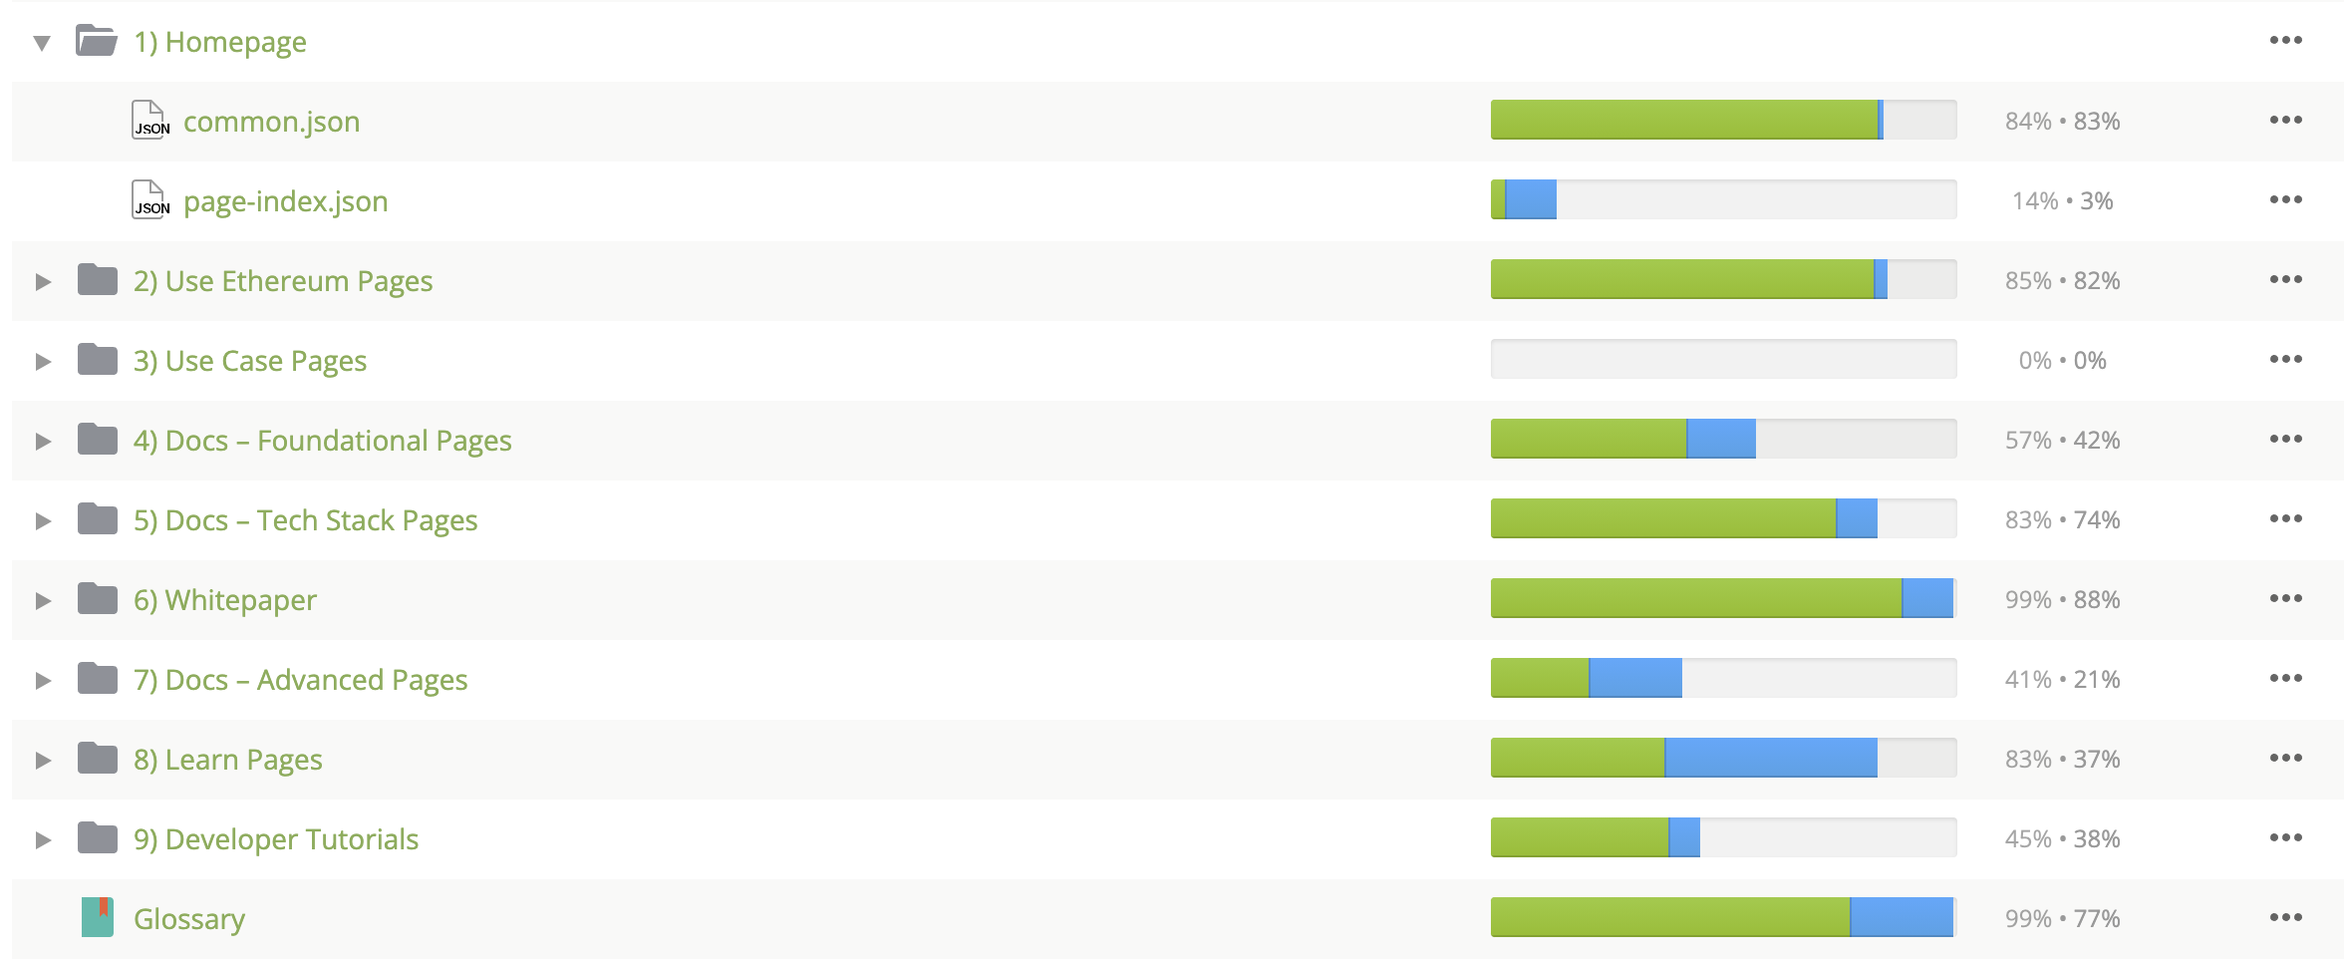
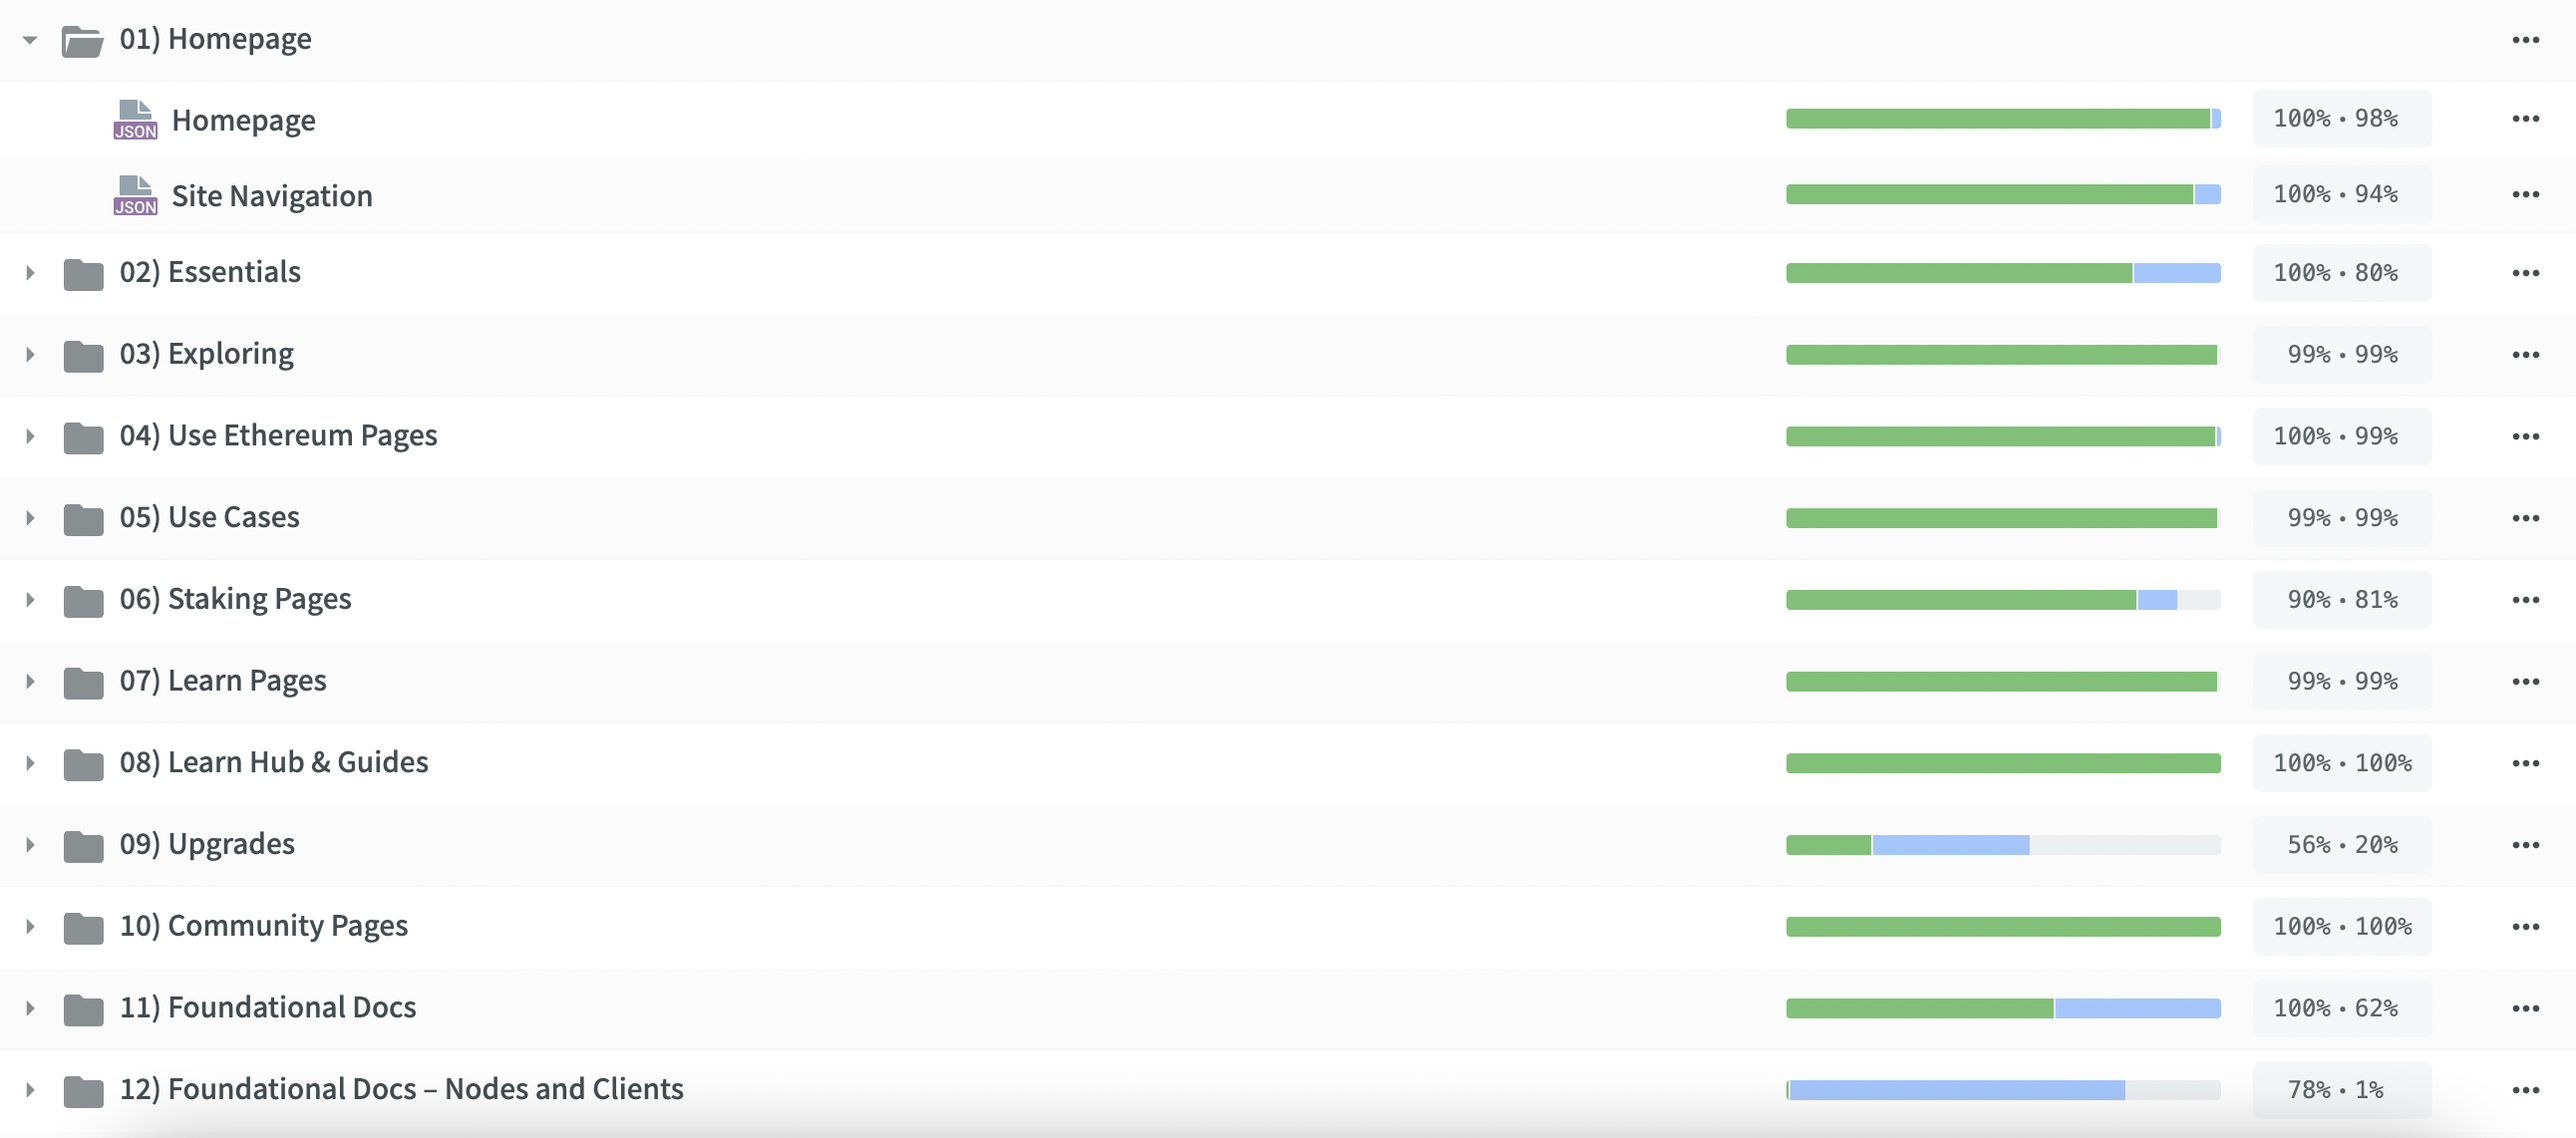
Update content buckets on How to translate page

diff --git a/src/content/contributing/translation-program/how-to-translate/index.md b/src/content/contributing/translation-program/how-to-translate/index.md
@@ -39,7 +39,7 @@ Don't see your language listed? [Open an issue](https://github.com/ethereum/ethe
 
 ![Translated and untranslated files in Crowdin](./crowdin-files.png)
 
-A note on content buckets: we use 'content buckets' within Crowdin to get the highest priority content released first. When you check out a language, for example, [Filipino](https://crowdin.com/project/ethereum-org/fil#) you'll see folders for content bucket ("1. Homepage", "2. Use Ethereum Pages", etc.).
+A note on content buckets: we use 'content buckets' within Crowdin to get the highest priority content released first. When you check out a language, for example, [Filipino](https://crowdin.com/project/ethereum-org/fil#) you'll see folders for content bucket ("1. Homepage", "2. Essentials", "3. Exploring", etc.).
 
 We encourage you to translate in this numerical order (1 → 2 → 3 → ⋯) to ensure the highest impact pages are translated first.
 
